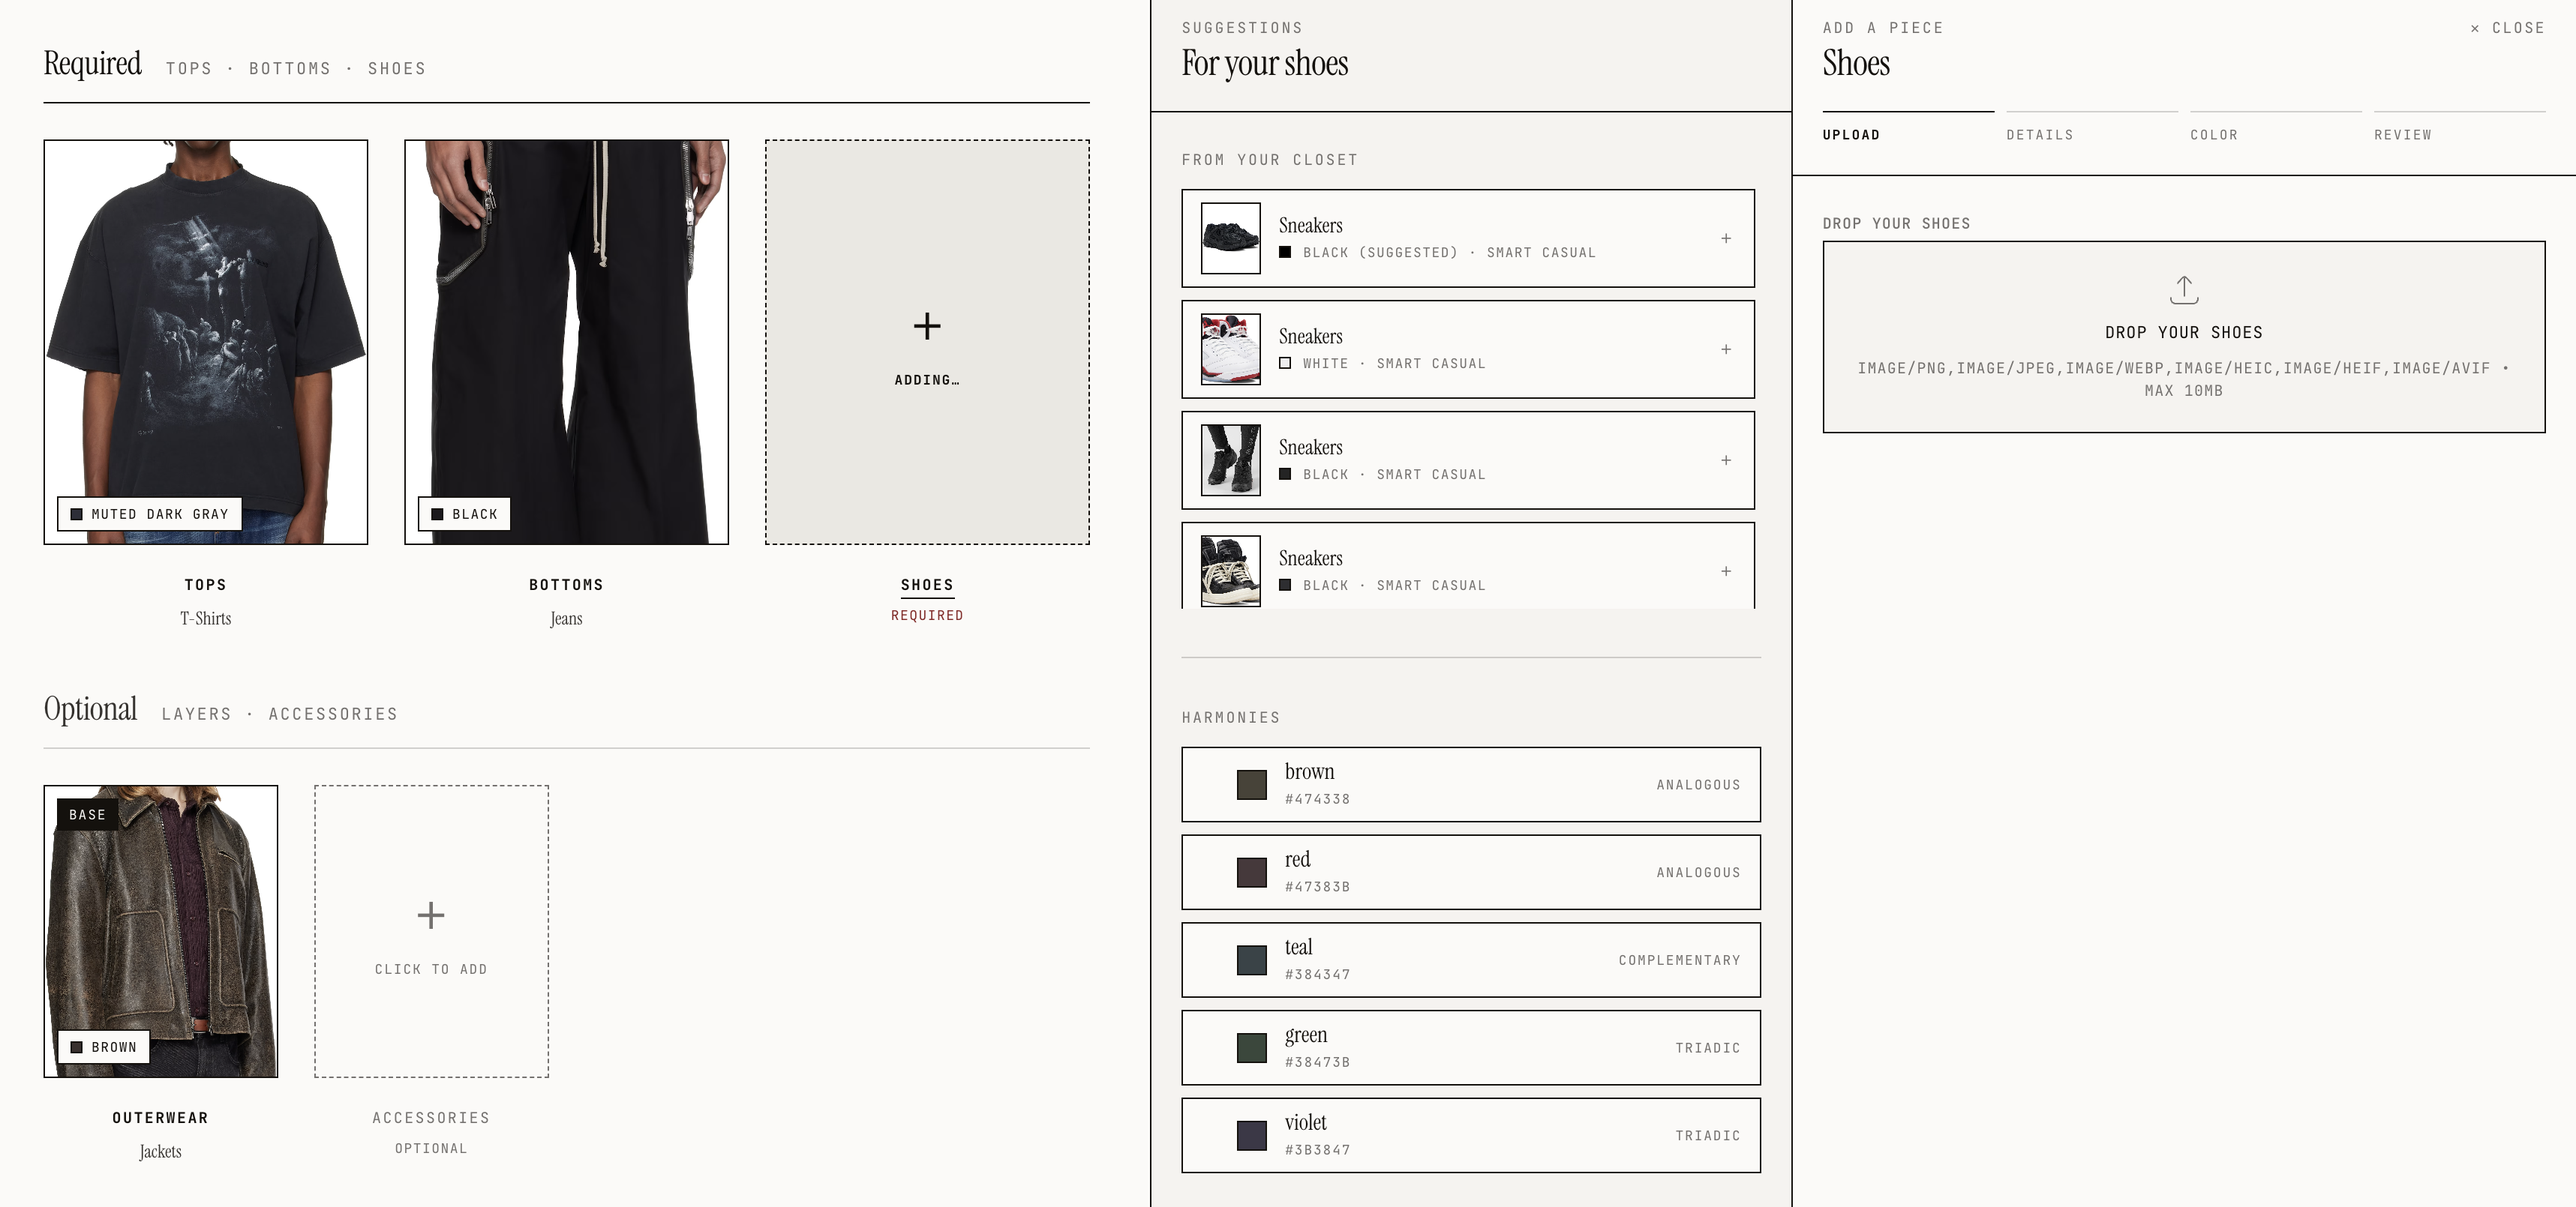
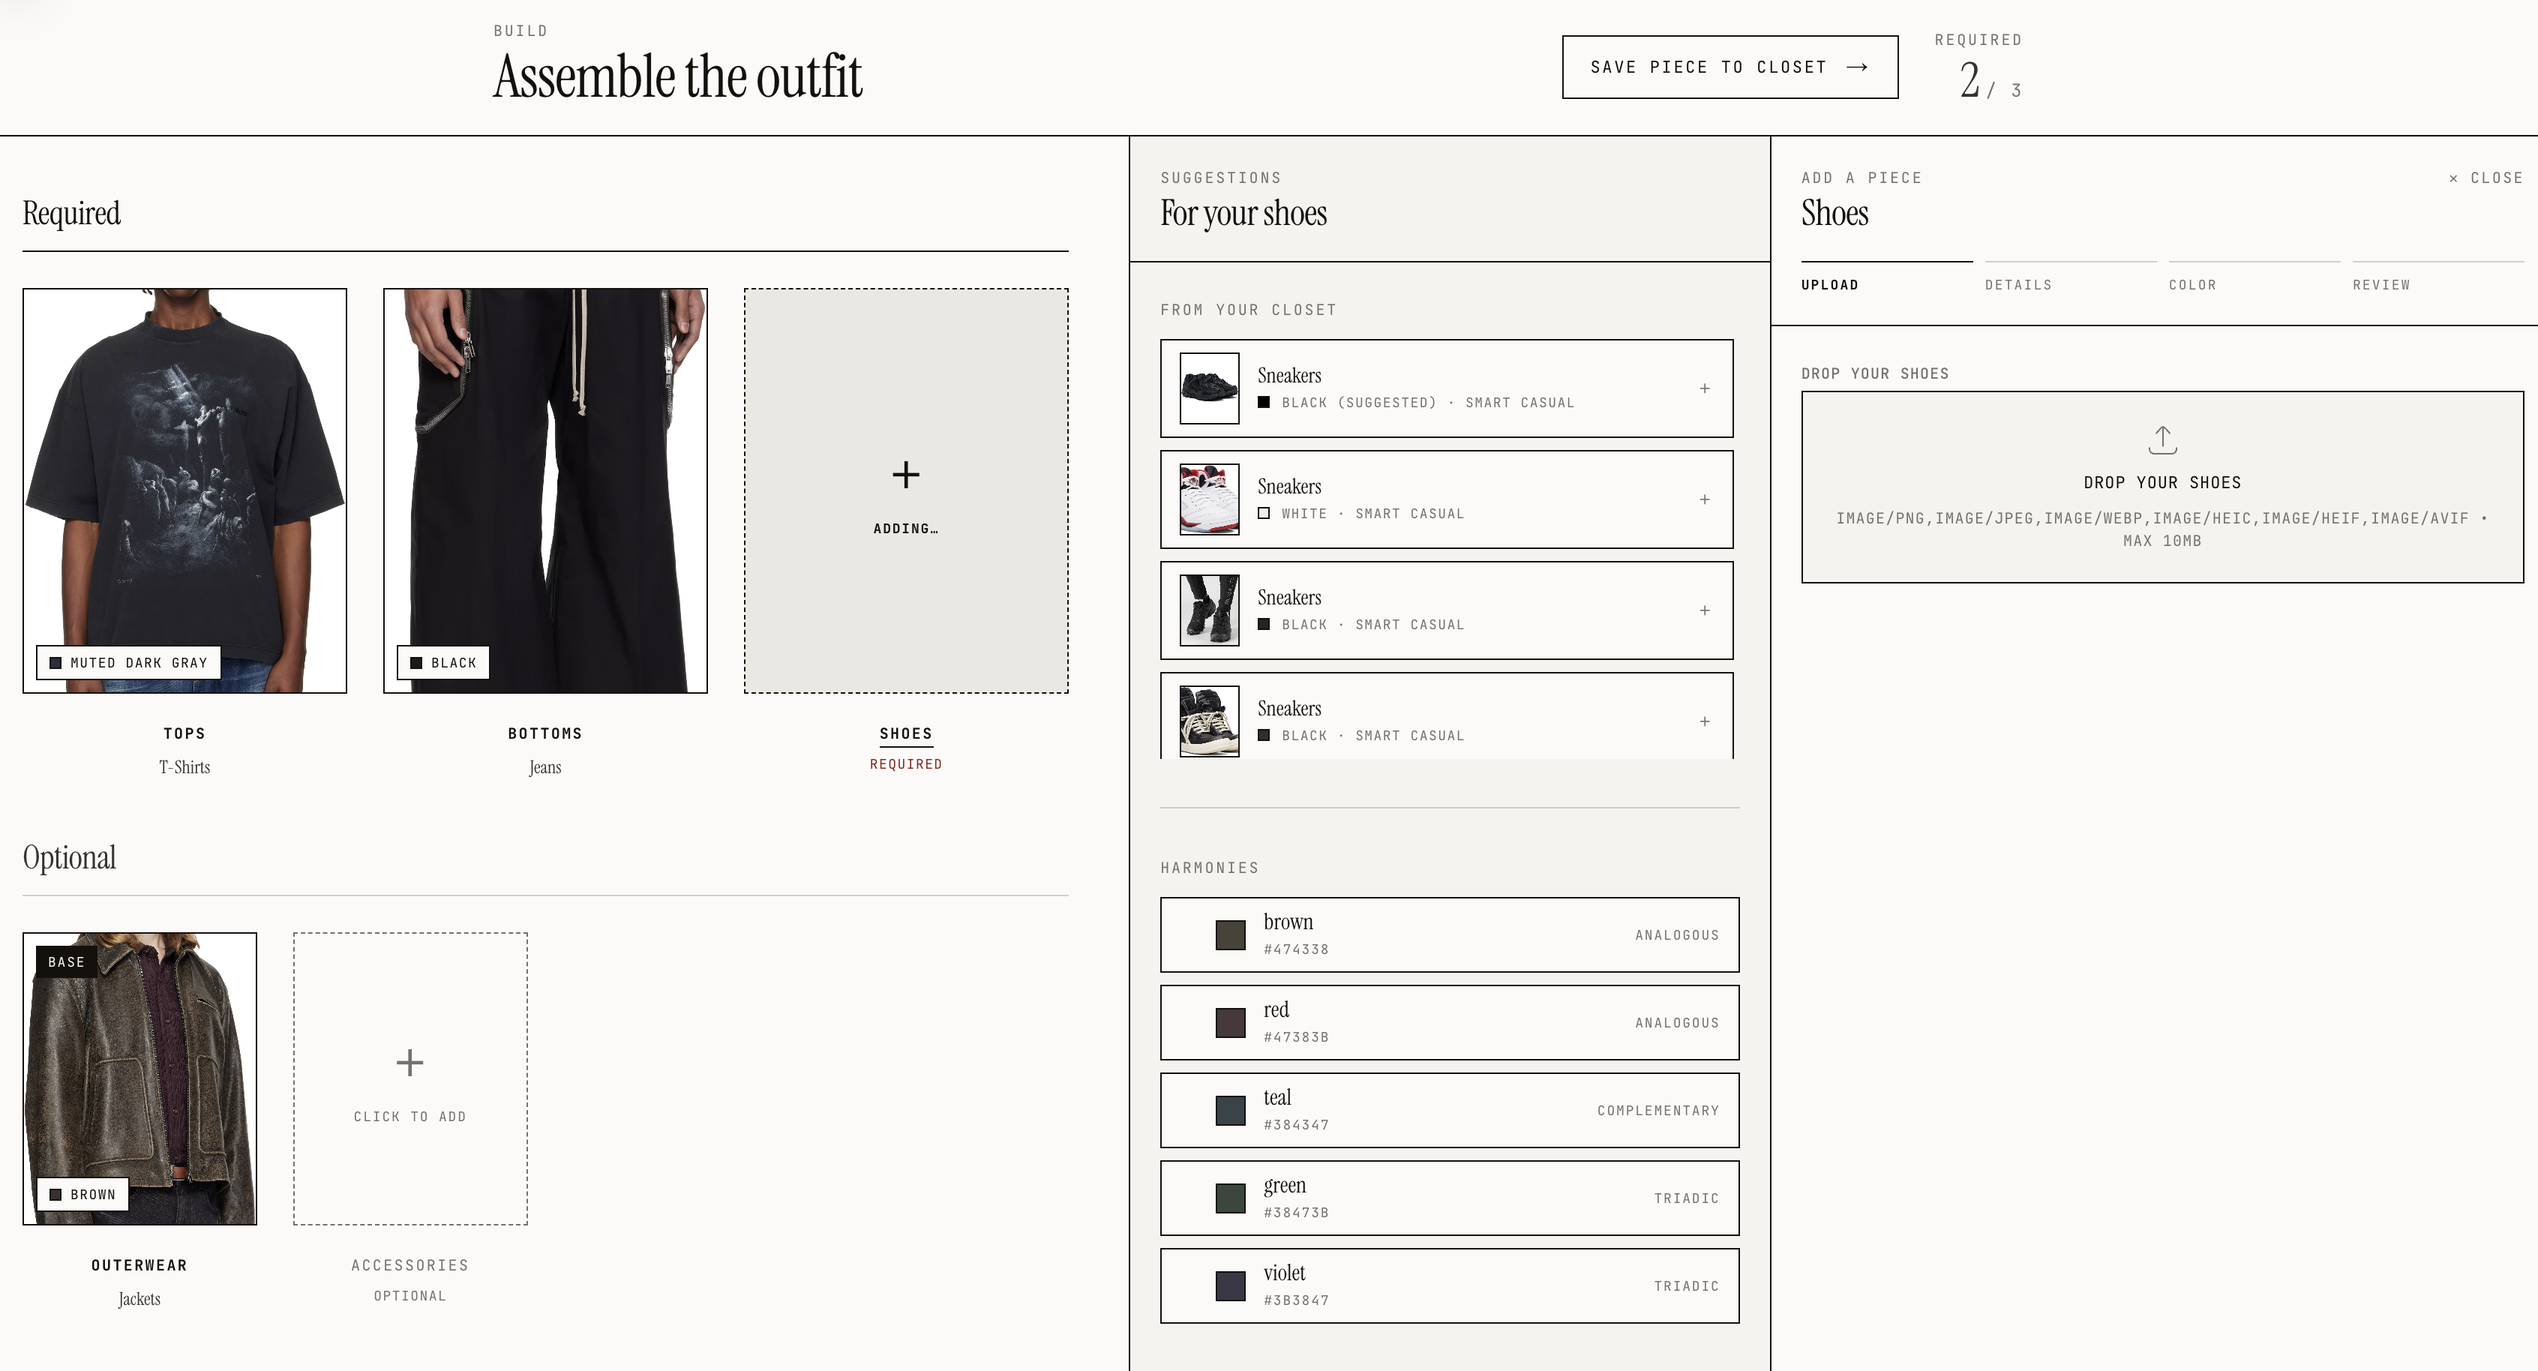
add a save-piece exit to the build step

diff --git a/frontend/src/app/style/components/BuildStep.tsx b/frontend/src/app/style/components/BuildStep.tsx
@@ -1,12 +1,15 @@
 'use client'
 
 import { useCallback, useMemo, useState } from 'react'
+import { useRouter } from 'next/navigation'
 import {
   useStyleStore,
   REQUIRED_CATEGORIES,
   OPTIONAL_CATEGORIES,
 } from '@/store/styleStore'
 import { useAuth } from '@/components/AuthProvider'
+import AuthModal from '@/components/AuthModal'
+import { saveItemToCloset } from '@/lib/api'
 import OutfitSlot from './OutfitSlot'
 import TryOnModal from './TryOnModal'
 import ItemDetailModal from './ItemDetailModal'
@@ -22,9 +25,16 @@ import type {
 
 export default function BuildStep() {
   const { session } = useAuth()
+  const [savingPiece, setSavingPiece] = useState(false)
+  const [pieceError, setPieceError] = useState<string | null>(null)
+  const [showAuthModal, setShowAuthModal] = useState(false)
 
+
+  const router = useRouter()
   const {
     getBaseItem,
+    getBaseItemWithBlob,
+    reset,
     category: baseCategory,
     croppedImage: baseCroppedImage,
     recommendations,
@@ -174,6 +184,29 @@ export default function BuildStep() {
   const handleBack = useCallback(() => setStep('colors'), [setStep])
   const handleReviewOutfit = useCallback(() => setStep('summary'), [setStep])
 
+  // The second exit from this step: skip the outfit entirely and just put
+  // the base piece in the closet.
+  const handleSavePiece = useCallback(async () => {
+    if (!session) {
+      setShowAuthModal(true)
+      return
+    }
+    const base = getBaseItemWithBlob()
+    if (!base) return
+    setSavingPiece(true)
+    setPieceError(null)
+    try {
+      await saveItemToCloset(base.item, base.imageBlob, session.access_token)
+      reset()
+      router.push('/closet')
+    } catch (err) {
+      setPieceError(
+        err instanceof Error ? err.message : 'Could not save the piece.',
+      )
+      setSavingPiece(false)
+    }
+  }, [session, getBaseItemWithBlob, reset, router])
+
   const filledRequiredCount = REQUIRED_CATEGORIES.filter((cat) =>
     filledCategories.includes(cat),
   ).length
@@ -198,7 +231,25 @@ export default function BuildStep() {
             </h1>
           </div>
 
-          <div className="text-right">
+          <div className="flex items-center gap-6 max-md:gap-4 flex-wrap">
+            <div className="flex flex-col items-end gap-1">
+              <button
+                type="button"
+                onClick={handleSavePiece}
+                disabled={savingPiece}
+                className="inline-flex items-center gap-3 px-[18px] py-[12px] border border-ink bg-paper text-ink font-mono text-[11px] uppercase tracking-[0.12em] transition-colors hover:bg-ink hover:text-paper disabled:opacity-40 disabled:cursor-not-allowed"
+              >
+                <span>{savingPiece ? 'Saving…' : 'Save piece to closet'}</span>
+                {!savingPiece && <span aria-hidden="true">→</span>}
+              </button>
+              {pieceError && (
+                <span className="font-mono text-[10px] uppercase tracking-[0.1em] text-accent">
+                  {pieceError}
+                </span>
+              )}
+            </div>
+
+            <div className="text-right">
             <p className="font-mono text-[10px] uppercase tracking-[0.14em] text-ink-3 mb-1">
               Required
             </p>
@@ -215,6 +266,7 @@ export default function BuildStep() {
                 / {REQUIRED_CATEGORIES.length}
               </span>
             </div>
+            </div>
           </div>
         </div>
       </div>
@@ -230,12 +282,9 @@ export default function BuildStep() {
         >
           <div className="max-w-[1100px] mx-auto px-10 max-md:px-6 py-10 pb-24">
             <section className="mb-10">
-              <header className="grid grid-cols-[auto_auto_1fr] gap-4 items-baseline pb-[14px] mb-6 border-b border-ink">
+              <header className="grid grid-cols-[auto_1fr] gap-4 items-baseline pb-[14px] mb-6 border-b border-ink">
                 <span className="font-display text-[22px] leading-none tracking-[-0.015em]">
                   Required
-                </span>
-                <span className="font-mono text-[11px] uppercase tracking-[0.12em] text-ink-3">
-                  Tops · Bottoms · Shoes
                 </span>
               </header>
 
@@ -281,12 +330,9 @@ export default function BuildStep() {
             </section>
 
             <section className="mb-10">
-              <header className="grid grid-cols-[auto_auto_1fr] gap-4 items-baseline pb-[14px] mb-6 border-b border-rule-soft">
+              <header className="grid grid-cols-[auto_1fr] gap-4 items-baseline pb-[14px] mb-6 border-b border-rule-soft">
                 <span className="font-display text-[22px] leading-none tracking-[-0.015em] text-ink-2">
                   Optional
-                </span>
-                <span className="font-mono text-[11px] uppercase tracking-[0.12em] text-ink-3">
-                  Layers · accessories
                 </span>
               </header>
 
@@ -469,6 +515,11 @@ export default function BuildStep() {
           }}
         />
       )}
+
+      <AuthModal
+        isOpen={showAuthModal}
+        onClose={() => setShowAuthModal(false)}
+      />
 
       {tryingOnFromDetail && session?.access_token && (
         <TryOnModal

diff --git a/frontend/src/lib/api.ts b/frontend/src/lib/api.ts
@@ -294,6 +294,22 @@ async function createOutfit(
  *
  * Returns the created outfit response
  */
+/**
+ * Save a single piece to the closet without building an outfit around it.
+ * Same upload path saveOutfitWithItems uses per item.
+ */
+export async function saveItemToCloset(
+  item: ClothingItemCreate,
+  imageBlob: Blob,
+  token: string,
+) {
+  return createClothingItem(
+    item,
+    new File([imageBlob], 'item.jpg', { type: 'image/jpeg' }),
+    token,
+  )
+}
+
 export async function saveOutfitWithItems(
   name: string,
   items: Array<{
